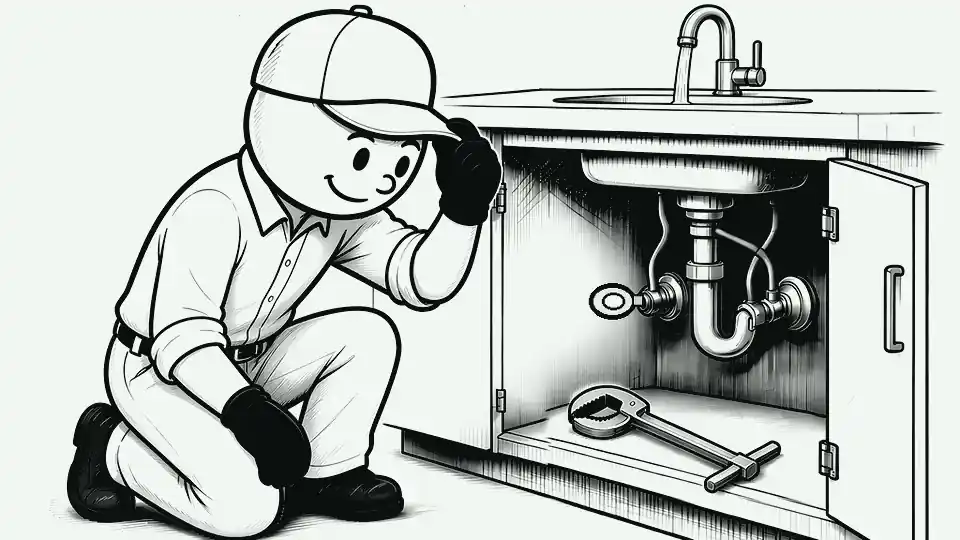
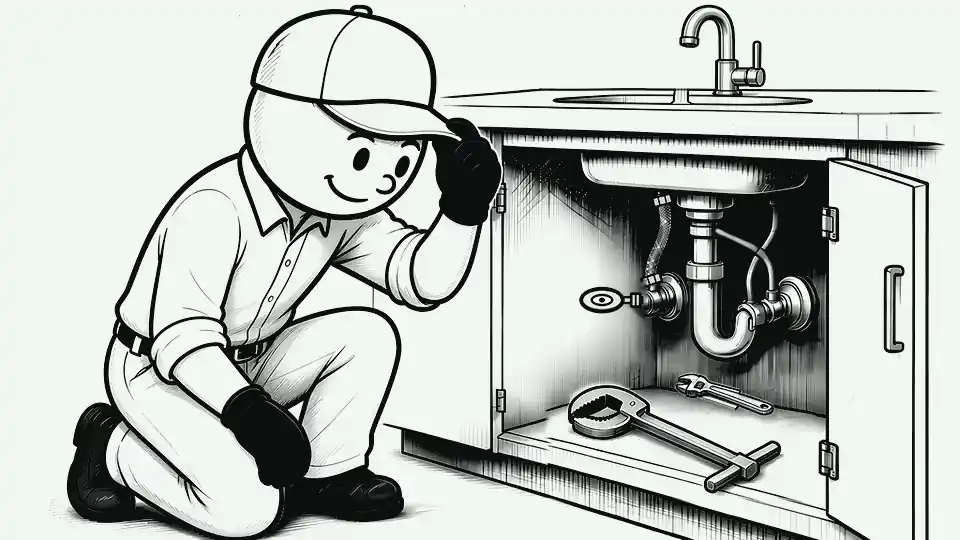
Scenes v7.2: sink fixes (basin wrench up behind the bowl on the mounting nut, oval stop handle in every frame, braided supply line connected 4-6, crescent wrench on the supply nut then seated on the cabinet floor)

Changed region(s): [[0.6875, 0.0, 0.8125, 0.1778], [0.5938, 0.3556, 0.7188, 0.5926], [0.6875, 0.6815, 0.8125, 0.8]]

diff --git a/scenes/sink.js b/scenes/sink.js
@@ -1,1 +1,1 @@
-(window.EESceneData=window.EESceneData||{})["sink"]={"kind":"kf","w":960,"h":540,"title":"Faucet replaced","alt":"He shuts the angle stop by hand, reaches up behind the bowl with a basin wrench to free the old faucet's mounting nut, sets the basin wrench down and lifts the old faucet out, threads the new faucet's supply line onto the stop, opens the stop to flush the line through the new spout, and tips his cap.","frames":[{"src":"scenes/kf/sink-1.webp?v=7","hold":460,"tw":{"x":-3},"o":[{"x":38,"y":66,"t":"word","text":"STOPS OFF","s":38}]},{"src":"scenes/kf/sink-2.webp?v=7","hold":500,"tw":{"y":-4},"o":[{"x":581,"y":188,"t":"effort","a":-40}]},{"src":"scenes/kf/sink-3.webp?v=7","hold":460,"tw":{"x":4,"ms":240}},{"src":"scenes/kf/sink-4.webp?v=7","hold":480,"tw":{"sy":0.99,"ms":200},"o":[{"x":562,"y":253,"t":"effort","a":-40}]},{"src":"scenes/kf/sink-5.webp?v=7","hold":480,"tw":{"y":-4}},{"src":"scenes/kf/sink-6.webp?v=7","hold":1000,"tw":{"y":6,"r":-0.8,"ms":300},"o":[{"x":110,"y":100,"t":"check"}]}],"placeholder":false};
+(window.EESceneData=window.EESceneData||{})["sink"]={"kind":"kf","w":960,"h":540,"title":"Faucet replaced","alt":"He shuts the angle stop by hand, reaches up behind the bowl with a basin wrench to free the old faucet's mounting nut, sets the basin wrench down and lifts the old faucet out, snugs the new faucet's braided supply line onto the stop with an adjustable wrench, opens the stop to flush the line through the new spout, and tips his cap.","frames":[{"src":"scenes/kf/sink-1.webp?v=7.2","hold":460,"tw":{"x":-3},"o":[{"x":38,"y":66,"t":"word","text":"STOPS OFF","s":38}]},{"src":"scenes/kf/sink-2.webp?v=7.2","hold":500,"tw":{"y":-4},"o":[{"x":581,"y":188,"t":"effort","a":-40}]},{"src":"scenes/kf/sink-3.webp?v=7.2","hold":460,"tw":{"x":4,"ms":240}},{"src":"scenes/kf/sink-4.webp?v=7.2","hold":480,"tw":{"sy":0.99,"ms":200},"o":[{"x":562,"y":253,"t":"effort","a":-40}]},{"src":"scenes/kf/sink-5.webp?v=7.2","hold":480,"tw":{"y":-4}},{"src":"scenes/kf/sink-6.webp?v=7.2","hold":1000,"tw":{"y":6,"r":-0.8,"ms":300},"o":[{"x":110,"y":100,"t":"check"}]}],"placeholder":false};
